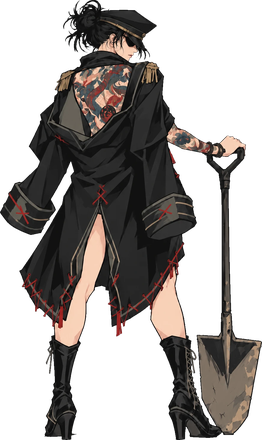
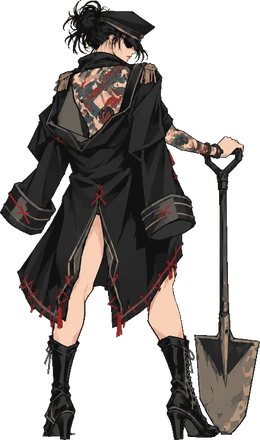
v12.17: 용묘화 대기 원화 교체 (배경 없는 원본)
Claude-Session: https://claude.ai/code/session_01J3nhobVtF4R9kQDUc9EDKF

diff --git a/cave-game/index.html b/cave-game/index.html
@@ -2,7 +2,7 @@
 <title>굴의 프롤로그</title>
 <!--
   굴의 프롤로그 — 프롤로그 : 노말모드
-  version v12.16
+  version v12.17
   변경 기록은 README.md 참고
 -->
 <meta name="viewport" content="width=device-width, initial-scale=1, maximum-scale=1, user-scalable=no, viewport-fit=cover">
@@ -337,7 +337,7 @@
 /* =========================================================
    설정
    ========================================================= */
-const VERSION = 'v12.16';
+const VERSION = 'v12.17';
 const SAVE_KEY = 'cave-game.character.v1';
 const ROWS = 5;          // 모든 맵 공통: 세로 5칸
 const LOBBY_COLS = 14;   // 굴(로비) 가로 길이 — 우물 같은 굴이라 한 화면에 다 보임

diff --git a/cave-game/README.md b/cave-game/README.md
@@ -1,6 +1,6 @@
 # 굴의 프롤로그 (cave-game)
 
-현재 버전: v12.16
+현재 버전: v12.17
 
 ## 구성
 
@@ -344,6 +344,9 @@
 - 카리우스 스프라이트가 오면 도형 대신 교체할 수 있게 연결
 
 ## 변경 기록
+
+- v12.17 (2026-10-01)
+  - 용묘화 대기 원화를 받은 배경 없는 그림으로 바꿈 (가장자리가 더 깔끔). 발 위치 · 키는 그대로
 
 - v12.16 (2026-10-01)
   - 이름 바꿈: 도모에 → 용묘화 (龍墓花, 청광묵처럼 한자 독음. 등의 용 문신 · 삽으로 묻는 자 · 여장부), 아그네스 → 로젤. 내부 id (tomoe · agnes)와 원화 파일 이름은 그대로
